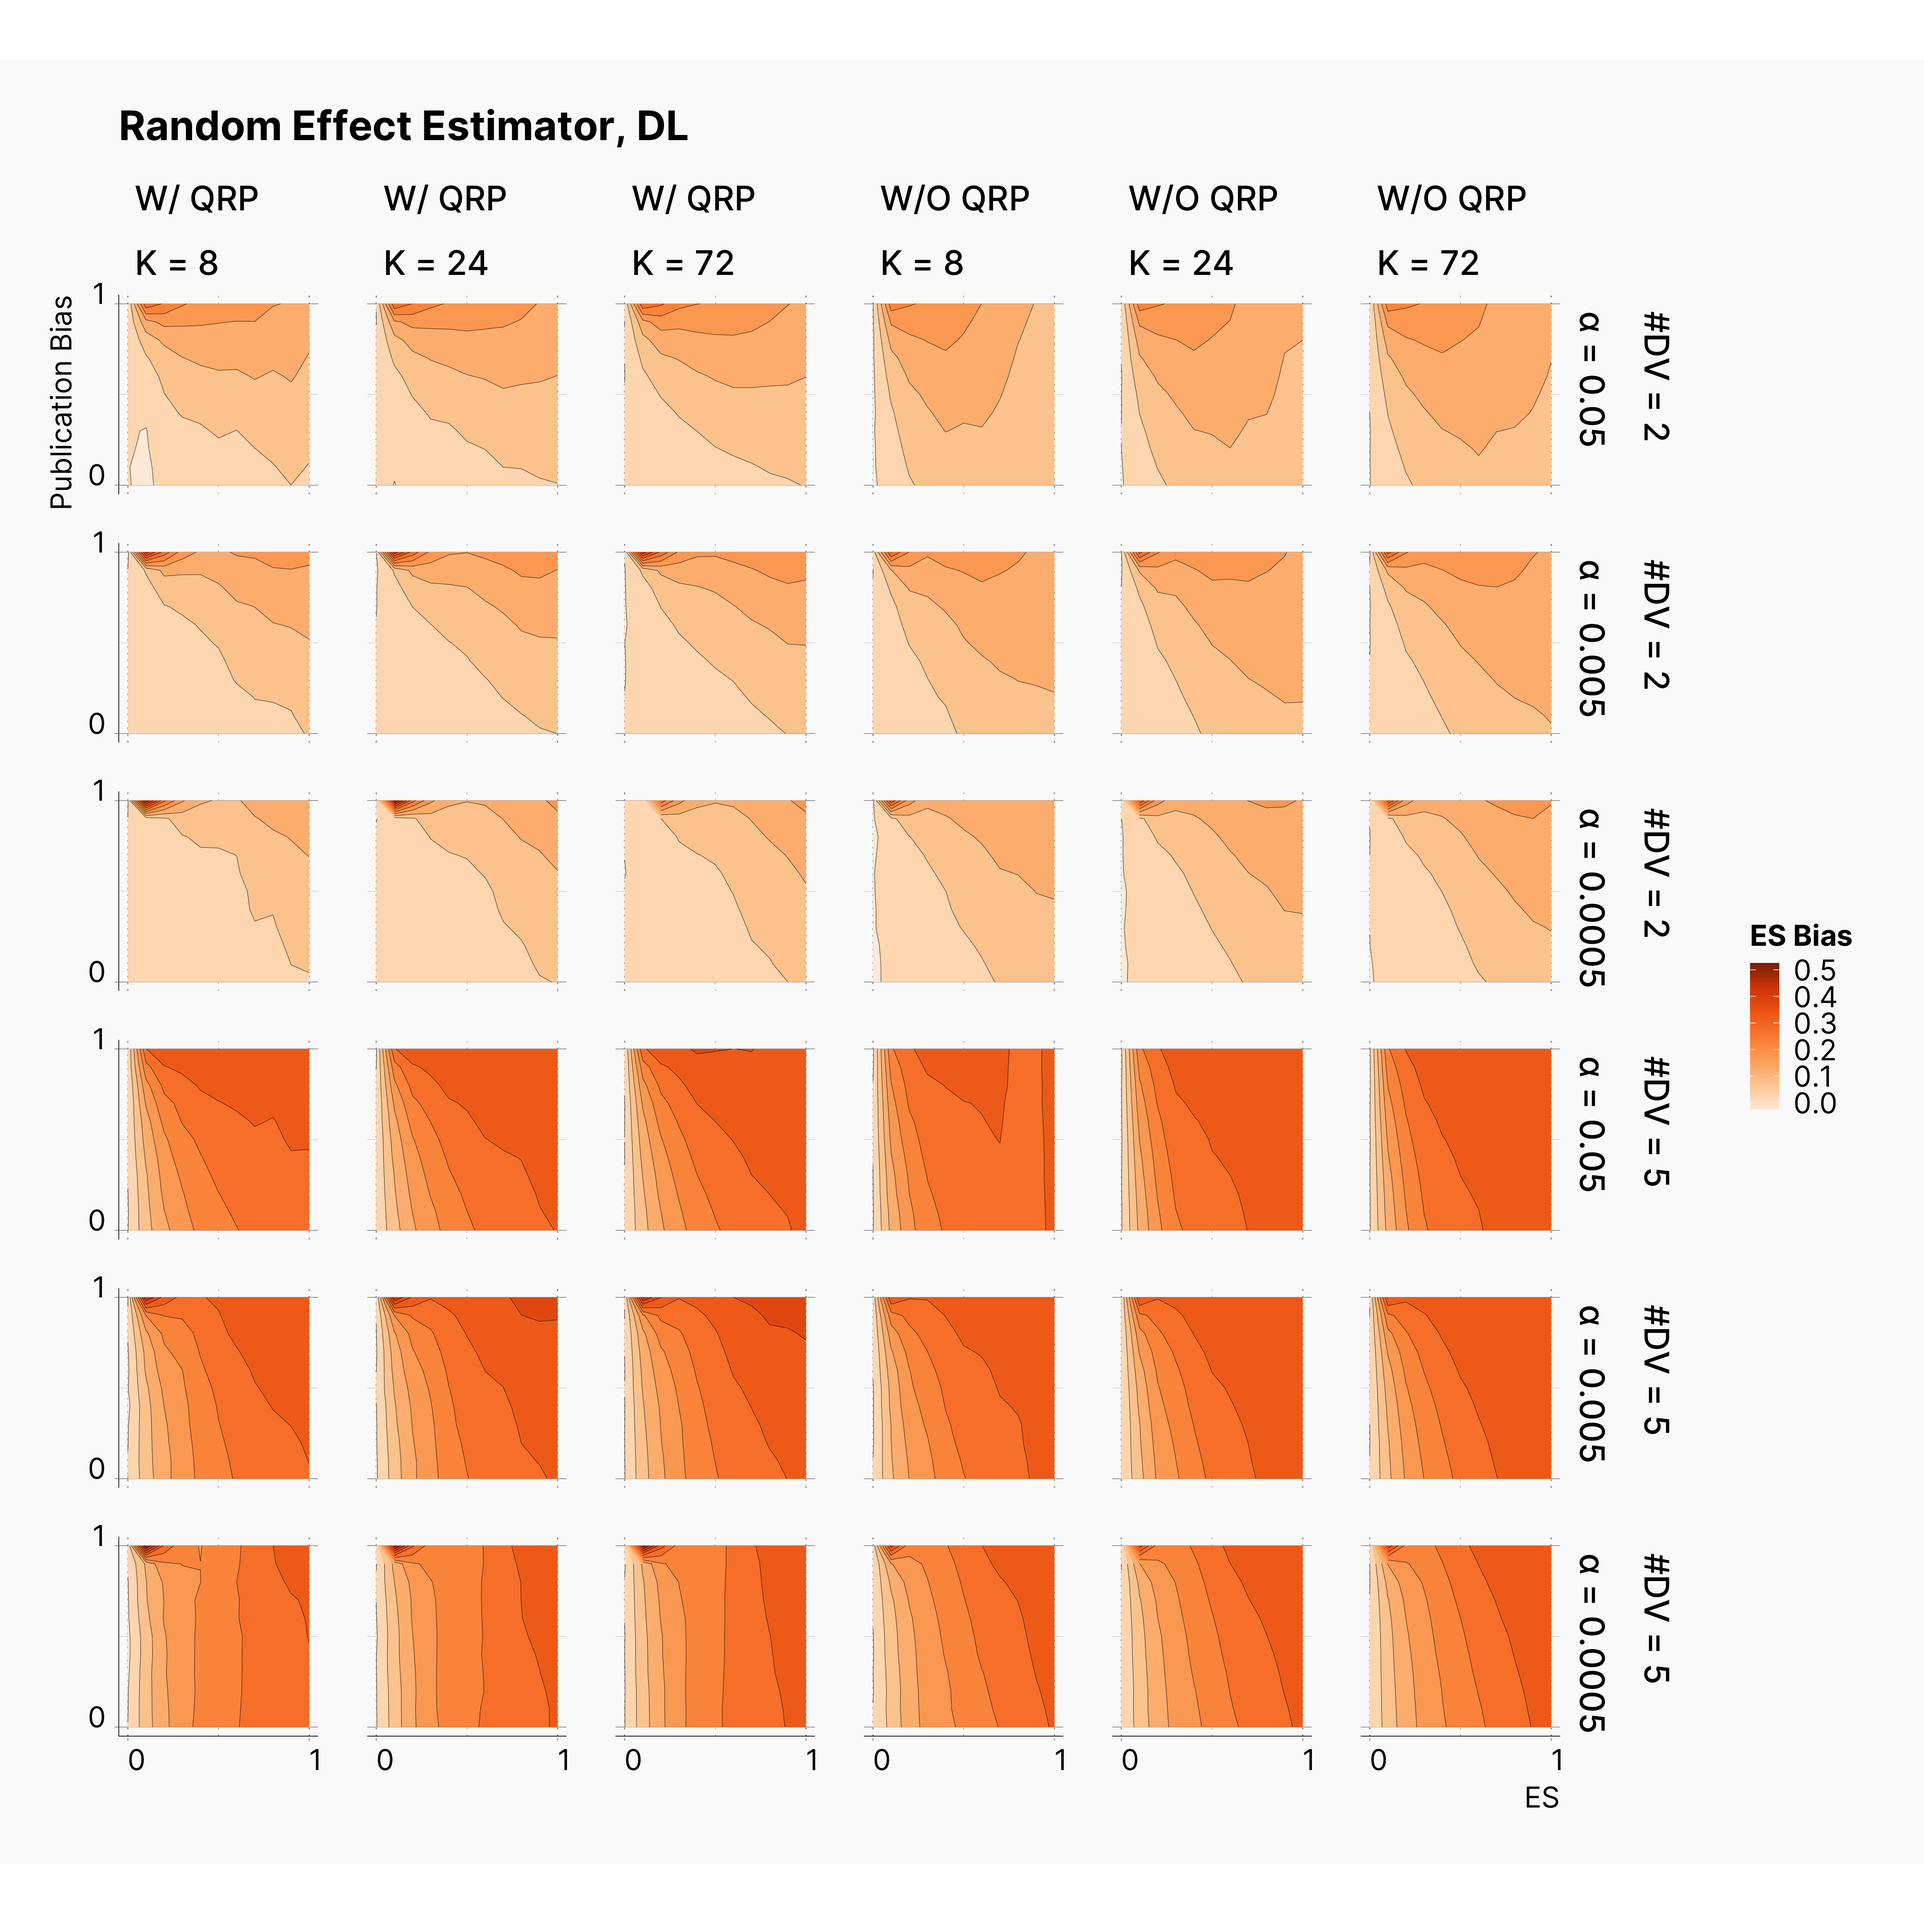
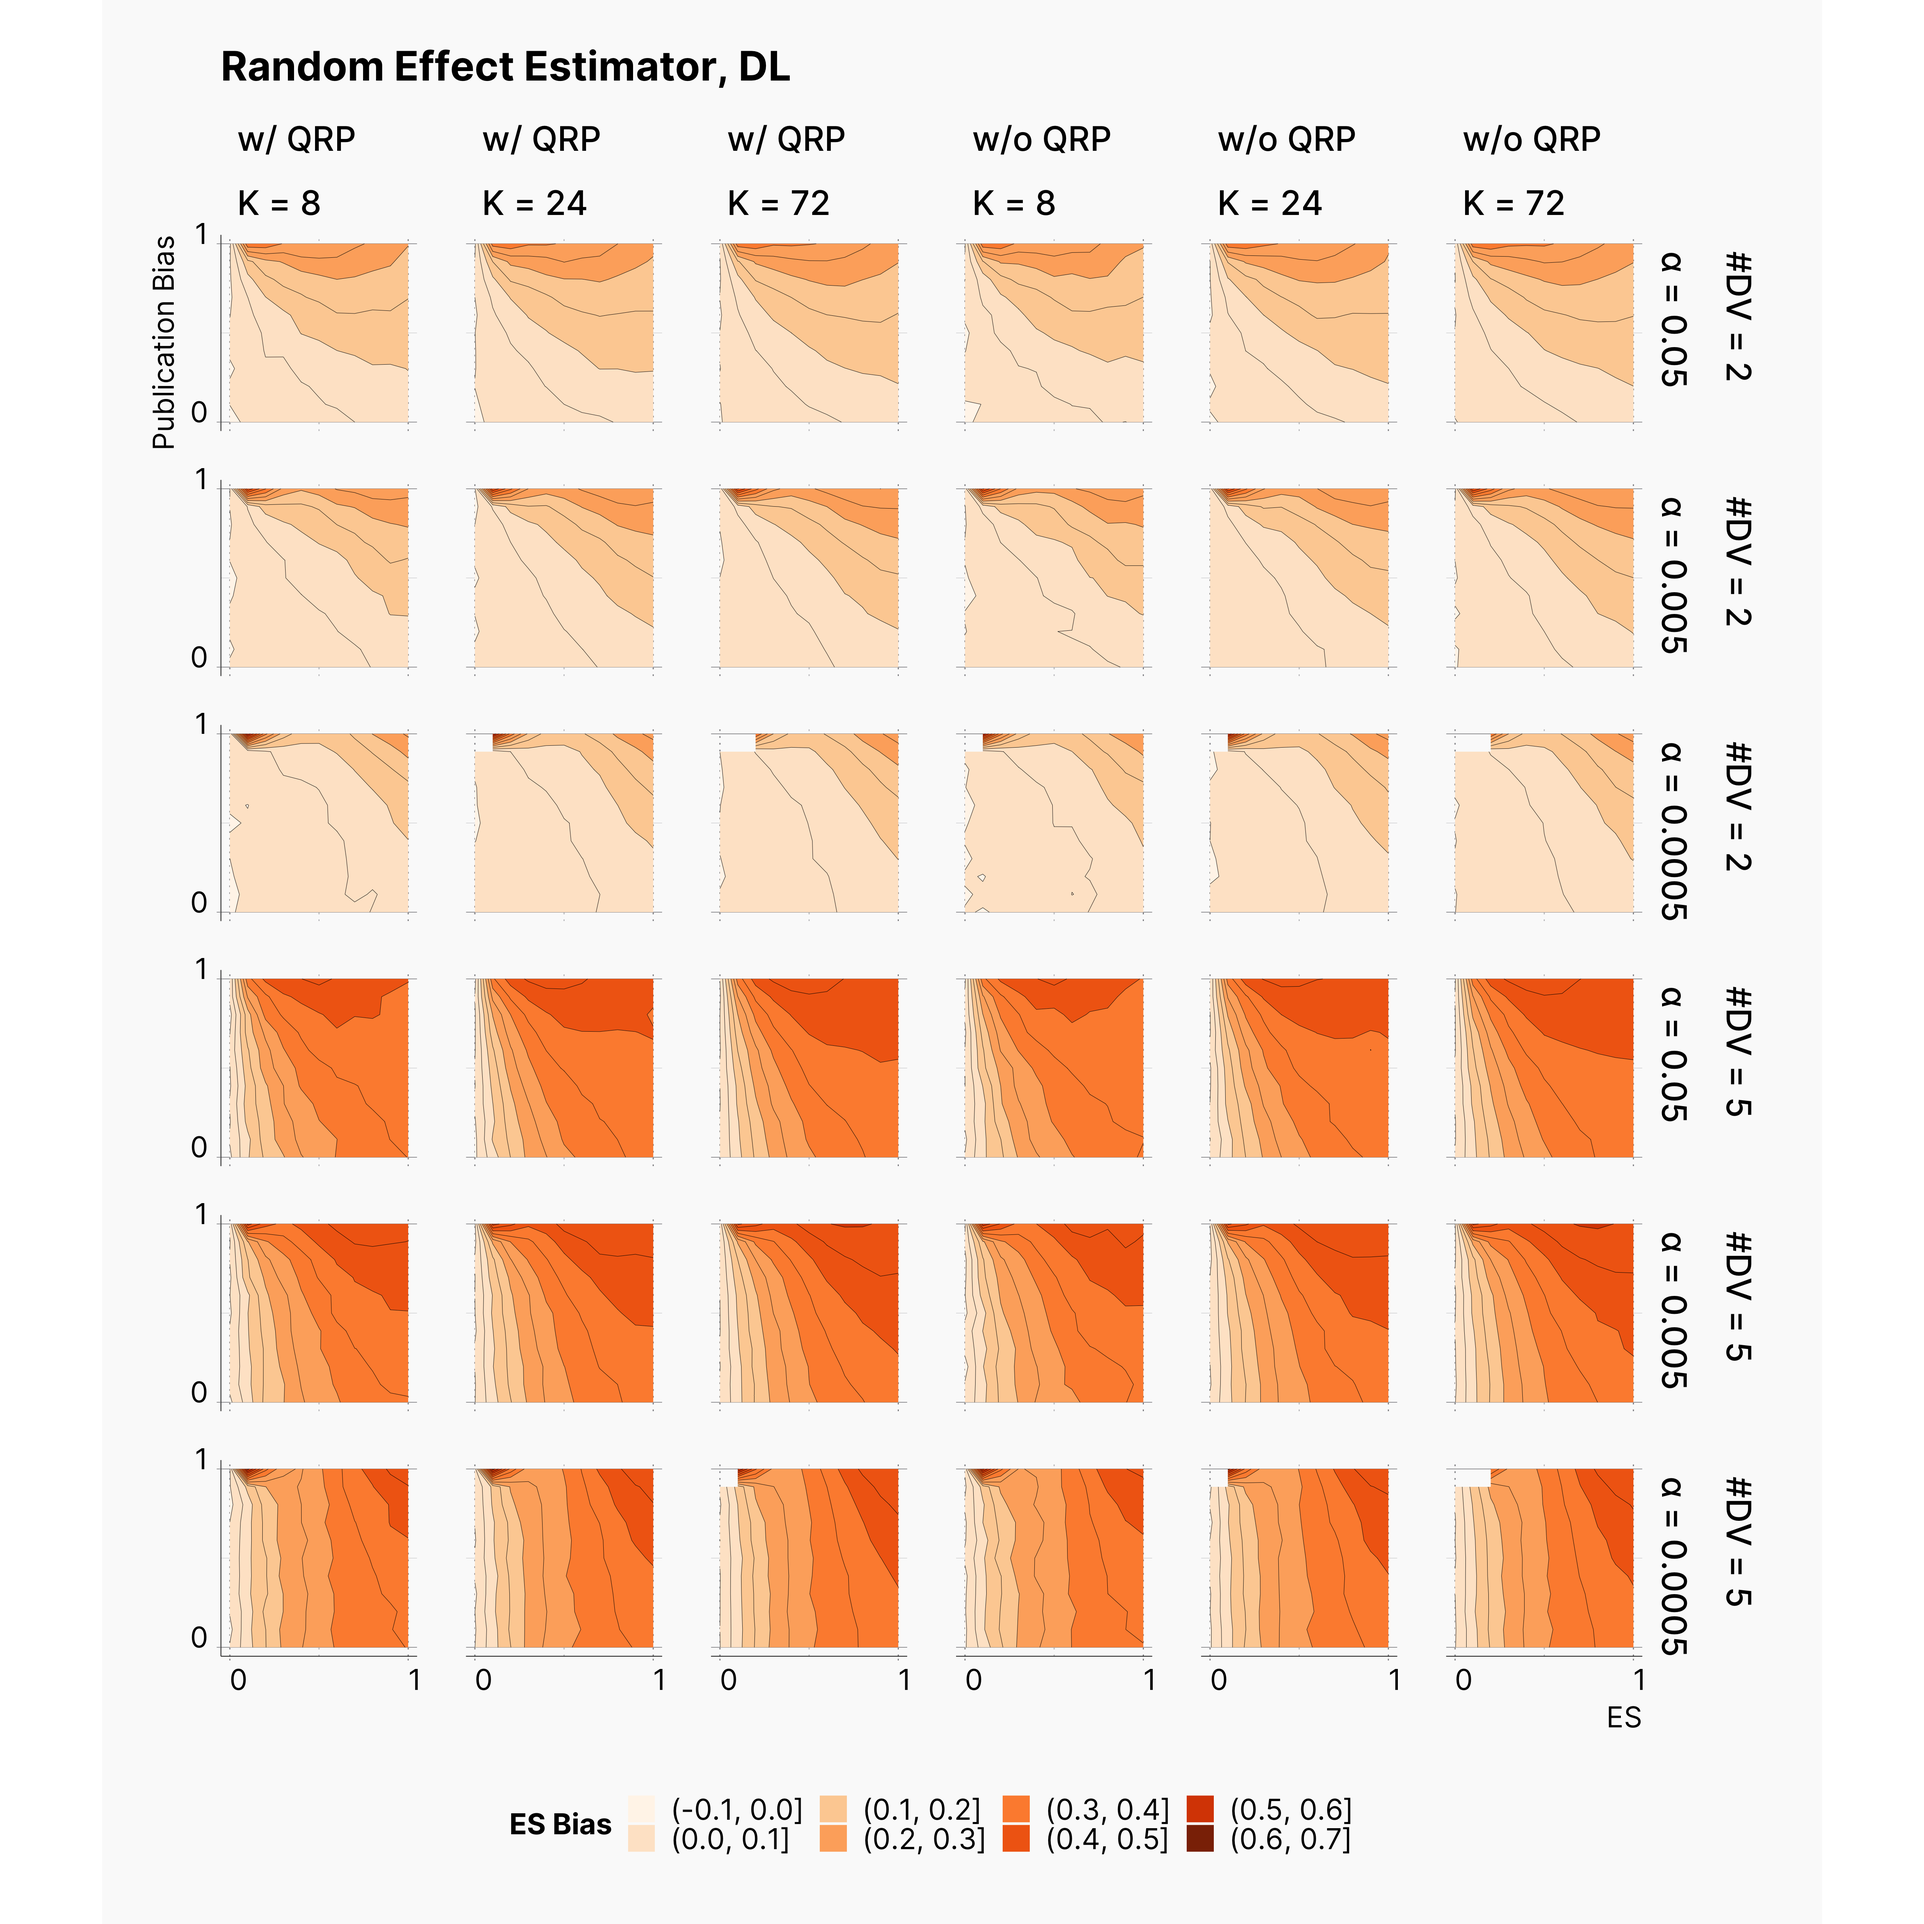
updated esther's figures with the updated nobs distro

diff --git a/docs/examples/esther_first_year.md b/docs/examples/esther_first_year.md
@@ -295,6 +295,15 @@ Figure 3, 4, 5, 6 illustrate our results in the form of contour plots. The x-axi
 <figure>
   <picture>
     <source 
+        srcset="/examples/figures/Esther_FYP/Esther_FYP_PFS_Counter_Filled_dark.png" 
+        media="(prefers-color-scheme: dark)">
+  <img src="/examples/figures/Esther_FYP/Esther_FYP_PFS_Counter_Filled_light.png" /><figcaption aria-hidden="true"><b>Figure 3.</b> Probability of Finding Sig.</figcaption>
+  </picture> 
+</figure>
+
+<figure>
+  <picture>
+    <source 
         srcset="/examples/figures/Esther_FYP/Esther_FYP_ES_Bias_Counter_Filled_dark.png" 
         media="(prefers-color-scheme: dark)">
   <img src="/examples/figures/Esther_FYP/Esther_FYP_ES_Bias_Counter_Filled_light.png" /><figcaption aria-hidden="true"><b>Figure 3.</b> ES Bias</figcaption>
